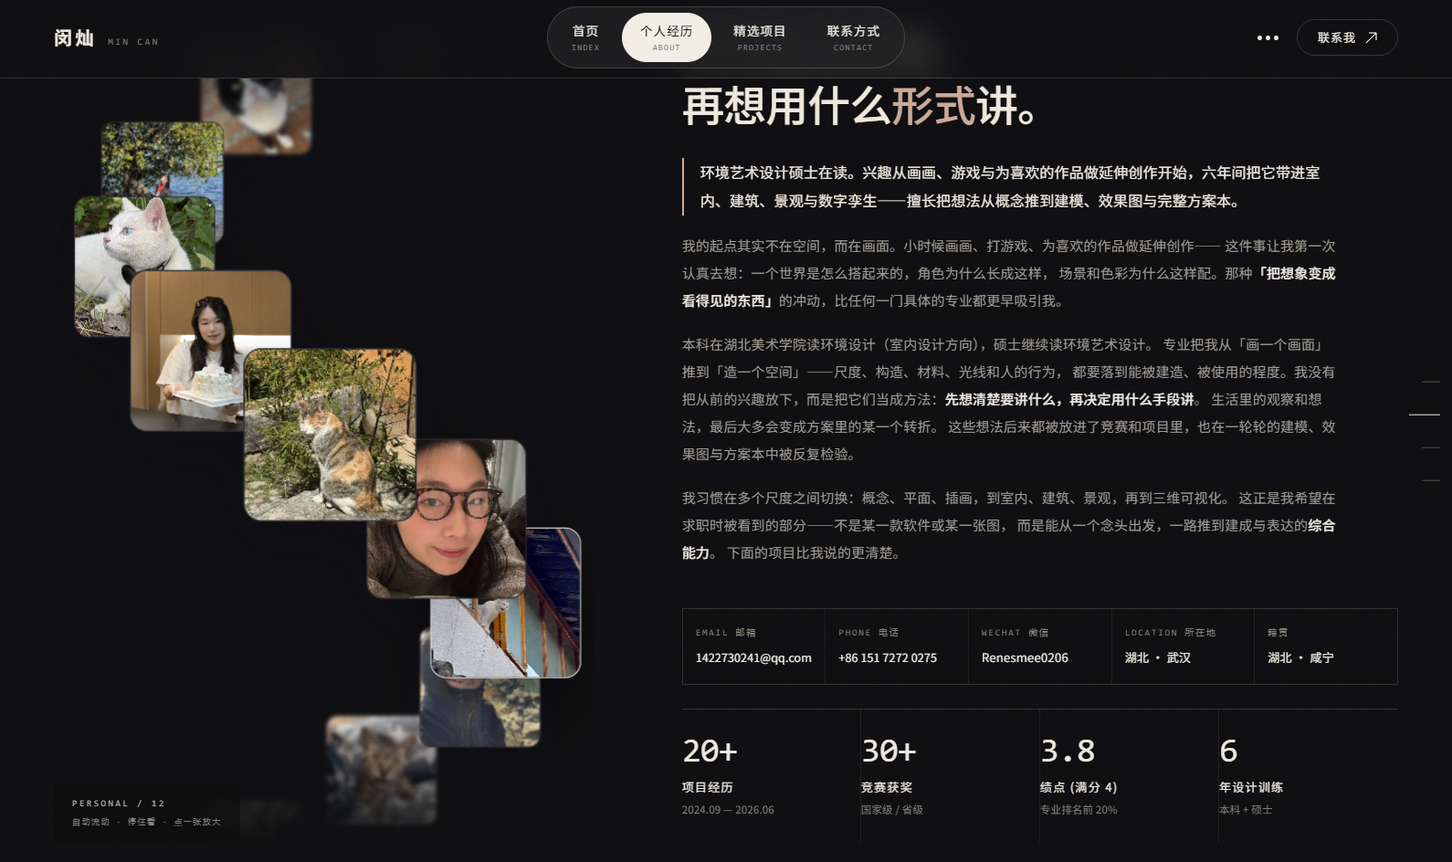
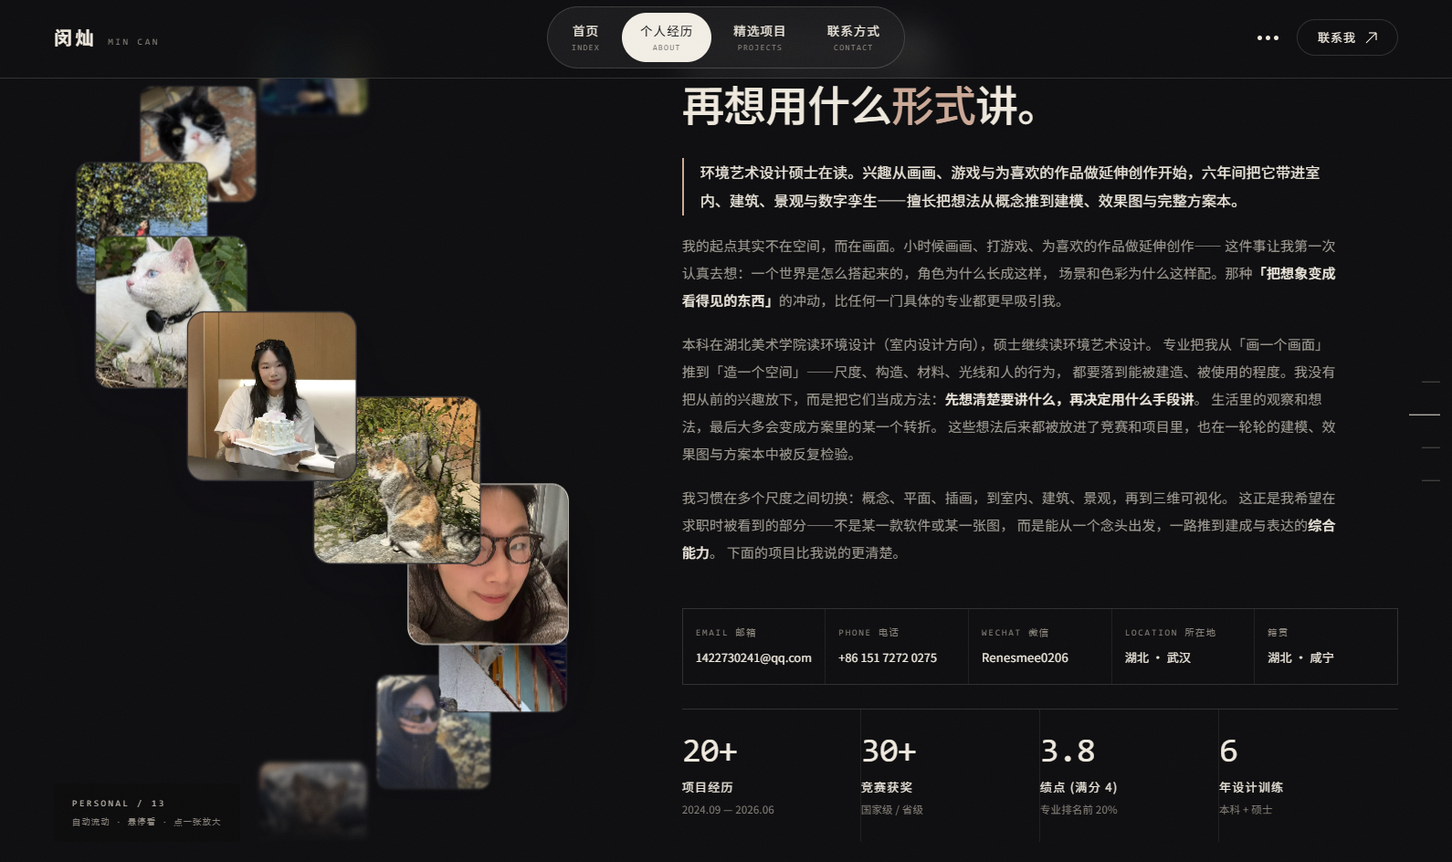
第二十二轮：拿相机那张进照片墙（13 张）+ 修「点开大图退出来照片墙跟着鼠标走」/ 改成一直自动流动
拿相机那张肖像进了照片墙：它是 personalPhotos 的第一张（直接用站里已有的 /media/portrait.webp），照片墙 12 张到 13 张；左栏仍然只有这一面墙，不是另起一块

修掉一个真 bug：点开一张大图、再退出来之后，照片墙会跟着鼠标走、不再自己转。原因是「按下点的位置」那个 ref 从来没清过——松开鼠标后只要在墙上移动超过 5px 就被当成拖动，draggingRef 一直挂着，自动播放被暂停、位移跟着鼠标。现在多一个 pointerDownRef：必须按着才可能拖动，松手后划过照片墙它照样自己流

探针里照原样加了两条回归：关掉大图后鼠标划 300px 照片墙只该动 33px（真被拖走是整段距离）；以及关掉大图后 1.2 秒里它得继续走 55px。另外把「动没动」的度量从平均改成中位数——螺旋里绕回去的那一两张会把平均值撑大

按你说的确定自动流动：pauseOnHover={false}，鼠标停在墙上也不停；悬停哪一张，那一张照样放大 + 浮出描边

顺带：照片墙的图一律 loading=eager —— 螺旋两头被裁在框外的卡片 lazy 永远不会加载，转到中间会先灰一下（13 张一共 1.5MB）

实测 28 项全过（含两条新回归）；过场 25、成果集锦 18、项目详情层、file:// 复测通过；网页端/页面截图 的 02-about / 13 / 14 重出；README / ROADMAP / 说明-先看我 / 网站现状 同步

Changed region(s): [[0.0308, 0.0922, 0.4006, 0.9523]]

diff --git a/01-网站预览/bundle.js b/01-网站预览/bundle.js
@@ -7348,6 +7348,11 @@
     }
   ];
   var personalPhotos = [
+    {
+      src: "media/portrait.webp",
+      label: "\u62FF\u76F8\u673A",
+      alt: "\u95F5\u707F\u4E3E\u7740\u4E00\u53F0\u76F8\u673A\u3001\u62AC\u5934\u5F80\u4E0A\u770B\u7684\u4E00\u5F20\u81EA\u62CD"
+    },
     { src: "media/me-01.webp", label: "\u6E56\u8FB9", alt: "\u6E56\u8FB9\uFF1A\u62AB\u7740\u84DD\u7EFF\u8272\u62AB\u80A9\u7684\u4EBA\u62AC\u5934\u770B\u5929\uFF0C\u8EAB\u540E\u662F\u82A6\u82C7\u548C\u6C34\u9E1F" },
     { src: "media/me-02.webp", label: "\u82B1\u7816\u5730\u677F\u4E0A", alt: "\u82B1\u7816\u5730\u677F\u4E0A\u62AC\u8D77\u5934\u770B\u955C\u5934\u7684\u4E00\u53EA\u9ED1\u767D\u732B" },
     { src: "media/me-03.webp", label: "\u6C34\u8FB9", alt: "\u7AD9\u5728\u6C34\u8FB9\u77F3\u5934\u4E0A\u7684\u4EBA\uFF0C\u5934\u9876\u538B\u7740\u4E00\u68F5\u5927\u6811" },
@@ -12478,6 +12483,7 @@ void main() {
     const draggingRef = (0, import_react4.useRef)(false);
     const lastPointerYRef = (0, import_react4.useRef)(0);
     const downAtRef = (0, import_react4.useRef)(null);
+    const pointerDownRef = (0, import_react4.useRef)(false);
     const normalizedItems = (0, import_react4.useMemo)(
       () => items.map(
         (item, index) => typeof item === "string" ? { src: item, alt: `\u7167\u7247 ${index + 1}` } : { alt: `\u7167\u7247 ${index + 1}`, ...item }
@@ -12598,6 +12604,7 @@ void main() {
       userSelect: dragEnabled ? "none" : "auto"
     };
     const stopDragging = (event) => {
+      pointerDownRef.current = false;
       if (!draggingRef.current) return;
       draggingRef.current = false;
       if (event.currentTarget.hasPointerCapture(event.pointerId)) {
@@ -12619,10 +12626,12 @@ void main() {
         },
         onPointerDown: (event) => {
           if (!dragEnabled || event.button !== 0) return;
+          pointerDownRef.current = true;
           downAtRef.current = { x: event.clientX, y: event.clientY };
           lastPointerYRef.current = event.clientY;
         },
         onPointerMove: (event) => {
+          if (!pointerDownRef.current) return;
           const down = downAtRef.current;
           if (!down) return;
           if (!draggingRef.current) {
@@ -12670,7 +12679,7 @@ void main() {
                       className: "infinite-spiral__image",
                       src: item.src,
                       alt: item.alt,
-                      loading: index < 6 ? "eager" : "lazy",
+                      loading: "eager",
                       draggable: false,
                       style: {
                         width: cardWidth,
@@ -12820,6 +12829,7 @@ void main() {
                 centerScale: 1.2,
                 edgeFade: 0.34,
                 edgeBlur: 5,
+                pauseOnHover: false,
                 onSelect: setShot
               }
             ) }),
@@ -12828,7 +12838,7 @@ void main() {
                 "Personal / ",
                 personalPhotos.length
               ] }),
-              /* @__PURE__ */ (0, import_jsx_runtime8.jsx)("span", { children: "\u81EA\u52A8\u6D41\u52A8 \xB7 \u505C\u4F4F\u770B \xB7 \u70B9\u4E00\u5F20\u653E\u5927" })
+              /* @__PURE__ */ (0, import_jsx_runtime8.jsx)("span", { children: "\u81EA\u52A8\u6D41\u52A8 \xB7 \u60AC\u505C\u770B \xB7 \u70B9\u4E00\u5F20\u653E\u5927" })
             ] })
           ] }),
           /* @__PURE__ */ (0, import_jsx_runtime8.jsxs)("div", { className: "about__intro", "data-reveal": true, style: { transitionDelay: "120ms" }, children: [

diff --git a/02-网站源码/src/components/InfiniteSpiral.jsx b/02-网站源码/src/components/InfiniteSpiral.jsx
@@ -12,7 +12,8 @@
 //   4) 点一张走 onSelect(index)。拖动是「按下后移开 5px」才开始的——注册表在
 //      pointerdown 就 setPointerCapture，普通点击也会被当成拖动、指针被抢走，
 //      卡片上的 onClick 收不到（点不开大图）。拖动结束后浏览器补的那一次 click
-//      按「按下点 / 松开点的距离」判掉；注册表用的是布尔标记，拖完第一下点不开
+//      按「按下点 / 松开点的距离」判掉；注册表用的是布尔标记，拖完第一下点不开。
+//      另外拖动只在「按着」的时候有效：手指/鼠标松开后划过照片墙，它不该跟着走
 import { useEffect, useMemo, useRef } from 'react'
 
 const clamp = (value, min, max) => Math.min(Math.max(value, min), max)
@@ -61,6 +62,7 @@ export default function InfiniteSpiral({
   const draggingRef = useRef(false)
   const lastPointerYRef = useRef(0)
   const downAtRef = useRef(null)
+  const pointerDownRef = useRef(false)
 
   const normalizedItems = useMemo(
     () =>
@@ -209,6 +211,7 @@ export default function InfiniteSpiral({
   }
 
   const stopDragging = (event) => {
+    pointerDownRef.current = false
     if (!draggingRef.current) return
     draggingRef.current = false
     if (event.currentTarget.hasPointerCapture(event.pointerId)) {
@@ -230,6 +233,7 @@ export default function InfiniteSpiral({
       }}
       onPointerDown={(event) => {
         if (!dragEnabled || event.button !== 0) return
+        pointerDownRef.current = true
         downAtRef.current = { x: event.clientX, y: event.clientY }
         lastPointerYRef.current = event.clientY
         /* 先不 setPointerCapture、也不进入拖动：等真的移开 5px 再开始。
@@ -237,6 +241,9 @@ export default function InfiniteSpiral({
            卡片上的 onClick 会被指针捕获改派走，点不开大图。 */
       }}
       onPointerMove={(event) => {
+        /* 必须「按着」才可能拖：松开之后鼠标在墙上划来划去不该带着它走
+           （按下那一下的位置只留给 onClickCapture 判「这是点击还是拖动的尾巴」）。 */
+        if (!pointerDownRef.current) return
         const down = downAtRef.current
         if (!down) return
         if (!draggingRef.current) {
@@ -286,7 +293,10 @@ export default function InfiniteSpiral({
                   className="infinite-spiral__image"
                   src={item.src}
                   alt={item.alt}
-                  loading={index < 6 ? 'eager' : 'lazy'}
+                  /* 一律 eager：螺旋两头那些卡片被 overflow 裁在框外，
+                     lazy 的话浏览器判定它们永远不会进视口，转到中间时还是灰的。
+                     12 张一共 1.4MB，值。 */
+                  loading="eager"
                   draggable={false}
                   style={{
                     width: cardWidth,

diff --git a/02-网站源码/src/components/About.jsx b/02-网站源码/src/components/About.jsx
@@ -26,10 +26,13 @@ export default function About() {
         />
 
         <div className="about__body">
-          {/* 左栏：个人照片墙（React Bits 的 InfiniteSpiral），占满这一栏、自己慢慢转。
-              源图在根目录 素材与原件/个人图片/，重出脚本 .codex-build/build-people.py */}
+          {/* 左栏：个人照片墙（React Bits 的 InfiniteSpiral），占满这一栏、一直在自己转。
+              拿相机那张肖像也在里面（personalPhotos 的第一张）。
+              源图在 素材与原件/个人图片/，重出脚本 .codex-build/build-people.py */}
           <figure className="about__wall" data-reveal>
             <div className="about__wall-stage">
+              {/* 它得一直在流：鼠标停在墙上不该把它停住（悬停哪一张，那一张照样放大）。
+                  想改成「停住方便点」，把 pauseOnHover 换成 true。 */}
               <InfiniteSpiral
                 items={personalPhotos}
                 animationMode="all"
@@ -44,12 +47,13 @@ export default function About() {
                 centerScale={1.2}
                 edgeFade={0.34}
                 edgeBlur={5}
+                pauseOnHover={false}
                 onSelect={setShot}
               />
             </div>
             <figcaption className="about__wall-tag">
               <span>Personal / {personalPhotos.length}</span>
-              <span>自动流动 · 停住看 · 点一张放大</span>
+              <span>自动流动 · 悬停看 · 点一张放大</span>
             </figcaption>
           </figure>
 

diff --git a/02-网站源码/src/data/site.js b/02-网站源码/src/data/site.js
@@ -80,11 +80,17 @@ export const likes = [
 
 /**
  * 个人经历里的照片墙（React Bits 的 InfiniteSpiral）。
- * 源图在 素材与原件/个人图片/，用 .codex-build/build-people.py 压成
+ * 13 张：第一张是原来个人经历左栏那张拿相机的肖像（`/media/portrait.webp`，早已在站里），
+ * 其余 12 张源图在 素材与原件/个人图片/，用 .codex-build/build-people.py 压成
  * public/media/me-01.webp … me-12.webp（长边 1000 / WebP q80）。
  * label 是大图下面那行小注，alt 给读屏用。
  */
 export const personalPhotos = [
+  {
+    src: '/media/portrait.webp',
+    label: '拿相机',
+    alt: '闵灿举着一台相机、抬头往上看的一张自拍',
+  },
   { src: '/media/me-01.webp', label: '湖边', alt: '湖边：披着蓝绿色披肩的人抬头看天，身后是芦苇和水鸟' },
   { src: '/media/me-02.webp', label: '花砖地板上', alt: '花砖地板上抬起头看镜头的一只黑白猫' },
   { src: '/media/me-03.webp', label: '水边', alt: '站在水边石头上的人，头顶压着一棵大树' },

diff --git a/01-网站预览/styles/global.css b/01-网站预览/styles/global.css
@@ -1040,7 +1040,7 @@ section[id] {
       hover 的放大 / 描边只能挂在内层，写外层会被覆盖
    ========================================================= */
 
-/* 个人经历的左栏就是这面照片墙：跟着右栏文字的高度撑满，自己慢慢转。
+/* 个人经历的左栏就是这面照片墙：跟着右栏文字的高度撑满，一直在自己转。
    右下角那枚小标签沿用原来 PORTRAIT / 2026 那一款。 */
 .about__wall {
   position: relative;

diff --git a/02-网站源码/src/styles/global.css b/02-网站源码/src/styles/global.css
@@ -1040,7 +1040,7 @@ section[id] {
       hover 的放大 / 描边只能挂在内层，写外层会被覆盖
    ========================================================= */
 
-/* 个人经历的左栏就是这面照片墙：跟着右栏文字的高度撑满，自己慢慢转。
+/* 个人经历的左栏就是这面照片墙：跟着右栏文字的高度撑满，一直在自己转。
    右下角那枚小标签沿用原来 PORTRAIT / 2026 那一款。 */
 .about__wall {
   position: relative;

diff --git a/网页端/网站现状.md b/网页端/网站现状.md
@@ -38,7 +38,7 @@
 | 开场动画 | `Intro.jsx` + `FoldText.jsx` | 牛皮纸快递箱，按住向右拖 / 左右滑动控制撕裂；撕到底**整屏一起变黑**，黑场里折字「欢迎来到闵灿的频道」；宽屏左黑边上有快递单 `FROM: MIN CAN.` / `Please claim your exclusive parcel.` |
 | 首页 | `Hero.jsx` + `FlexCarousel.jsx` + `Prism.jsx` | 「What I like」7 件作品流（可拖可点放大）；「闵灿 / MIN CAN」块压在其上（刻意遮挡，只在左竖条有渐隐）；背景一层慢转极光；底部「继续了解我」指引 |
 | 板块过场 | `ChapterDivider.jsx` + `ScrollFloat.jsx` | 一整屏黑 + 一行英文大字（About & Experience / Selected Projects / Contact），逐字从下浮起绑滚动进度 |
-| 个人经历 | `About.jsx` + `InfiniteSpiral.jsx` + `PhotoLightbox.jsx` | **左栏 = 个人照片墙**（12 张生活照转成螺旋、自己在转；悬停某一张才放大 + 描边，点开看大图、再点缩回）+ 右栏自述 / 联系方式 / 数据 + 经历与教育两栏 + 荣誉奖项（同一套两栏骨架对齐） |
+| 个人经历 | `About.jsx` + `InfiniteSpiral.jsx` + `PhotoLightbox.jsx` | **左栏 = 个人照片墙**（13 张：拿相机那张 `portrait.webp` + 12 张生活照，转成一条螺旋一直在自己转；悬停某一张才放大 + 描边，点开看大图、再点缩回）+ 右栏自述 / 联系方式 / 数据 + 经历与教育两栏 + 荣誉奖项（同一套两栏骨架对齐） |
 | 精选项目 | `Projects.jsx` + `ProjectDetail.jsx` + `BounceCards.jsx` | 六张项目卡 → 全屏详情层（ESC 关、← → 切、底部缩略图）；成果集锦＝一叠圆角白框卡片，可「洗牌换一组」，点一张回项目 |
 | 联系方式 | `Contact.jsx` | 点邮箱 / 电话 / 微信号即复制 |
 
@@ -79,16 +79,20 @@ git add -A; git commit -m "更新：xxx"; git push
    手机竖拍的照片不会再躺倒。
 6. **照片墙（个人经历左栏）那张卡片里的结构不能合并**：外层 `.infinite-spiral__item` 的 `transform`
    每帧被 rAF 改写，hover 的放大 / 描边挂在内层 `.infinite-spiral__frame` 上；写外层会被覆盖。
-   拖动是「按下后移开 5px」才开始的——注册表原来在 pointerdown 就 `setPointerCapture`，
+  拖动必须**按着**才算（`pointerDownRef`）+ 移开 5px 才开始——注册表原来在 pointerdown 就 `setPointerCapture`，
    普通点击会被当成拖动，卡片上的 `onClick` 收不到、点不开大图。
+  ⚠ 别把 `pointerDownRef` 去掉：只靠「按下点位置」的话，松手后鼠标划过照片墙会把它带走
+  （第二十二轮踩过：点开大图退出来，照片墙就跟着鼠标走、不自己转了）。
+  `pauseOnHover={false}` 是刻意的——要一直自动流动，鼠标停在墙上也不停。
    手机端 `touch-action` 必须是 `auto`，否则手指在照片墙上划不动页面。
    换图走 `.codex-build/build-people.py`（从 `素材与原件/个人图片/` 压出 me-01…12）。
 
 ## 六、当前状态
 
-- **已完成第一轮 ~ 第二十轮**，最新提交见 `git log`（第二十轮：个人经历加照片墙）。
+- **已完成第一轮 ~ 第二十二轮**，最新提交见 `git log`（第二十二轮：拿相机那张进照片墙 + 修掉
+  「退出来照片墙跟着鼠标走」+ 改成一直自动流动）。
   每轮的记录在 `02-网站源码/ROADMAP.md`。
-- **本地领先 `origin/main` 10 个提交，两个线上站还是旧版**——一直没 `git push`。
+- **本地领先 `origin/main` 12 个提交，两个线上站还是旧版**——一直没 `git push`。
   要发的时候说一声，`push` 之后 GitHub Pages 约 30 秒、腾讯云约 1–3 分钟自动更新。
 - 文件夹重排（网页端 / PDF与PPT / 求职投递 / 素材与原件）已经作为单独一条提交落库，
   工作区现在是干净的。
@@ -102,5 +106,5 @@ git add -A; git commit -m "更新：xxx"; git push
 4. 矩以构「我的角色」写的是「概念设计 / 模块化构造」，要不要按团队分工写细。
 5. 美术馆那两张（`6.jpg` / `7.jpg`）EXIF 转正之后排在最后——位置要不要再换。
 6. 奖项页「30+ 项竞赛获奖，这里列近三年 7 项代表」这个写法要不要保留。
-7. 照片墙现在是 12 张生活照（人 / 猫 / 出门拍的各占一些）。想换、想加、想只留人像，
-   把图丢进 `素材与原件/个人图片/` 说一声就行（脚本里那份顺序表也一起改）。
+7. 照片墙现在是 13 张——第一张是拿相机那张肖像（`portrait.webp`），后面 12 张生活照
+   （人 / 猫 / 出门拍的各占一些）。想换、想加、想只留人像，说一声就行。

diff --git a/02-网站源码/README.md b/02-网站源码/README.md
@@ -32,7 +32,7 @@ pnpm preview
 | --- | --- | --- |
 | 00 开场动画 | `src/components/Intro.jsx` | 拖拽撕开牛皮纸快递箱 → 黑场折字 → 进站（每次进站都播） |
 | 01 全屏首页 | `src/components/Hero.jsx` | Prism 极光背景 + 大标题（压在作品流之上）+「What I like」可拖动画作流（`FlexCarousel.jsx`） |
-| 02 个人经历 | `src/components/About.jsx` | **左栏 = 个人照片墙**（`InfiniteSpiral.jsx` + `PhotoLightbox.jsx`，占满这一栏、自己在转）、右栏介绍 / 联系方式 / 数据、经历 / 教育 / 获奖时间轴 |
+| 02 个人经历 | `src/components/About.jsx` | **左栏 = 个人照片墙**（13 张，`InfiniteSpiral.jsx` + `PhotoLightbox.jsx`，一直在自己转）、右栏介绍 / 联系方式 / 数据、经历 / 教育 / 获奖时间轴 |
 | 03 精选项目 | `src/components/Projects.jsx` | 6 张大卡片 + 设计主张卡片 + 关键词跑马灯 + 成果集锦（`BounceCards.jsx`，可洗牌） |
 | 04 联系方式 | `src/components/Contact.jsx` | 整屏收尾页，大标题 + 邮箱 + 电话 + 简历下载 |
 | — 板块过场 | `src/components/ChapterDivider.jsx`（内用 `ScrollFloat.jsx`） | **一整屏的黑**，中间一行英文大字：`About & Experience` / `Selected Projects` / `Contact`，滚到跟前逐字浮上来，浮完跟着滚出上边 |
@@ -125,7 +125,7 @@ pnpm preview
 | --- | --- |
 | `intro-open.mp4` | 开场动画：牛皮纸快递盒撕裂特写 |
 | `like-01 … like-07.webp` | 首页「What I like」作品流（源图在`素材与原件/首页图片/`，打包时内联进 bundle） |
-| `avatar.webp` | 导航名片头像（`portrait.webp` 是原来个人经历左栏那张肖像，换照片墙后没再上页面，文件留着） |
+| `portrait.webp` / `avatar.webp` | 照片墙里那张拿相机的肖像 / 导航名片头像 |
 | `me-01 … me-12.webp` | 个人经历照片墙（源图在 `素材与原件/个人图片/`，脚本 `.codex-build/build-people.py`，长边 1000 / WebP q80） |
 | `p-01 … p-06.webp` | 精选项目大卡片 |
 | `d-01-1 … d-06-7.webp`（03 / 04 排到 `-8`） | 项目细节图（同时也是成果集锦的图片池，共 43 张） |
@@ -159,16 +159,21 @@ hover 把两边推开、当前那张摊平并放大一点点。**卡片是彩色
 ## 个人照片墙（InfiniteSpiral）
 
 `src/components/InfiniteSpiral.jsx` —— React Bits 的 InfiniteSpiral（JS + CSS 变体）：
-**就放在个人经历左栏**（`.about__wall`，原来那张 `portrait.webp` 肖像的位置，
-跟着右栏文字的高度撑满）：12 张生活照排成一条缓慢自转的螺旋，鼠标停住会停下、
-按住可以上下拖着看，点一张由 `PhotoLightbox.jsx` 放大到屏幕中间，再点一下缩回。
+**就放在个人经历左栏**（`.about__wall`）：**13 张**（第一张是拿相机那张
+`portrait.webp`，后面 12 张生活照）排成一条一直在自转的螺旋，按住可以上下拖着看，
+点一张由 `PhotoLightbox.jsx` 放大到屏幕中间，再点一下缩回。
 
 - 照片：`public/media/me-01…12.webp`，源图在 `素材与原件/个人图片/`，重出脚本
   `.codex-build/build-people.py`（长边 1000 / WebP q80，顺带读 EXIF 转正）。顺序写在脚本的 `ORDER` 里。
+  拿相机那张不在这儿——它复用站里早就有的 `portrait.webp`（`site.js` 里排在 `personalPhotos` 第一位）。
 - 卡片形状和 hover：外层 `.infinite-spiral__item` 的 `transform` 每帧被 rAF 改写，
   圆角 / 描边 / 略微放大只能挂在内层 `.infinite-spiral__frame` 上——写外层会被覆盖。
 - 拖动是「按下后移开 5px」才开始的：注册表原来在 `pointerdown` 就 `setPointerCapture`，
   普通点击会被当成拖动、卡片上的 `onClick` 被改派走（点不开大图）。
+  **而且必须「按着」才算拖**（`pointerDownRef`）：只记按下点位置的话，松手后鼠标划过
+  照片墙会把它带走、自动流动也一起停掉（点开大图退出来最容易触发）。
+- `pauseOnHover={false}` 是刻意的：要一直自动流动，鼠标停在墙上也不停；
+  悬停哪一张，那一张才放大 + 描边。想「停住方便点」改成 `true`。
 - 手机上 `touch-action` 保持 `auto`、不接拖动，否则手指在照片墙上划不动页面
   （手机和桌面共用一套几何，半径按栏宽自动收口，手机上只留五六张）。
 - 螺旋半径按 `width/2 - cardWidth*0.72` 收口，边上的卡片不会被舞台硬切；

diff --git a/02-网站源码/ROADMAP.md b/02-网站源码/ROADMAP.md
@@ -395,6 +395,24 @@
 - [x] 实测 26 项全过；`网页端/页面截图` 的 `02-about.png` 重出（左栏已经是照片墙）、
       13 / 14 两张换成新版；README / ROADMAP / 说明-先看我 / 网站现状 同步
 
+## 已完成 · 第二十二轮（2026-10-04 · 拿相机那张进照片墙 + 修「退出来照片墙跟着鼠标走」）
+
+- [x] **拿相机那张进了照片墙**：它就是左栏墙上的第一张（`personalPhotos` 的第 1 项，
+      直接用站里已有的 `/media/portrait.webp`），照片墙 12 → **13 张**。
+      按反馈是「进墙里」，不是另起一块——左栏仍然只有这一面墙。
+- [x] **修掉一个真 bug**：点开一张大图、再退出来之后，照片墙会**跟着鼠标走、不再自己转**。
+      原因是「按下点的位置」那个 ref 从来没清过：松开鼠标之后只要在墙上移动超过 5px，
+      就被当成拖动，`draggingRef` 一直挂着 → 自动播放被暂停、位移跟着鼠标。
+      现在多一个 `pointerDownRef`——**必须按着**才可能拖动；松手后划过照片墙它照样自己流。
+      探针里照原样加了两条回归：划 300px 照片墙只该动 ~33px（真被拖走是整段距离）；
+      以及关掉大图后 1.2 秒里它得继续走 ~55px。
+- [x] **按你说的「确定自动流动」**：`pauseOnHover={false}`，鼠标停在墙上也不停；
+      悬停哪一张，那一张照样放大 + 浮出描边。想改回「停住方便点」把它换成 `true` 就行。
+- [x] 顺带：照片墙的图一律 `loading="eager"`——螺旋两头被裁在框外的卡片 lazy 永远不会加载，
+      转到中间会先灰一下（13 张一共 1.5MB）。
+- [x] 实测 28 项全过（含两条新回归）；`网页端/页面截图` 的 02-about / 13 / 14 重出；
+      README / ROADMAP / 说明-先看我 / 网站现状 同步
+
 ## 上线前必须处理
 
 - [x] 视频体积：已换成 25.4MB / 21.1MB 的版本，总大小从 385MB 降到 46MB

diff --git a/说明-先看我.md b/说明-先看我.md
@@ -116,9 +116,9 @@
   浮到位正好铺满一屏，再跟着滚出上边，下一部分才接上来。
 - 点任意一张**项目卡片** → 弹出全屏详情层，看这个项目的主图、视频和其他图片。
   `ESC` 关闭、`← →` 切换、底部缩略图可点。
-- 个人经历的**左栏是一面照片墙**（原来那张肖像的位置，不再是单起一块）：12 张生活照
-  排成一条缓慢自转的螺旋（React Bits 的 InfiniteSpiral），它自己会慢慢转，
-  鼠标停住它就停下方便你点、移开继续；可以按住上下拖着看。
+- 个人经历的**左栏是一面照片墙**（不再单起一块）：拿相机那张肖像也在里面，一共 13 张，
+  排成一条螺旋（React Bits 的 InfiniteSpiral），**它一直在自己转**（鼠标停上去也不停），
+  也可以按住上下拖着看。
   **悬停到某一张上，那一张才略微放大并浮出一圈描边**，
   **点一张放大到屏幕中间看，再点一下缩回**（放大时 `← →` 换一张、`ESC` 收起）。
   手机上是手指划过不会挡住页面滚动、点一下照样能放大。
